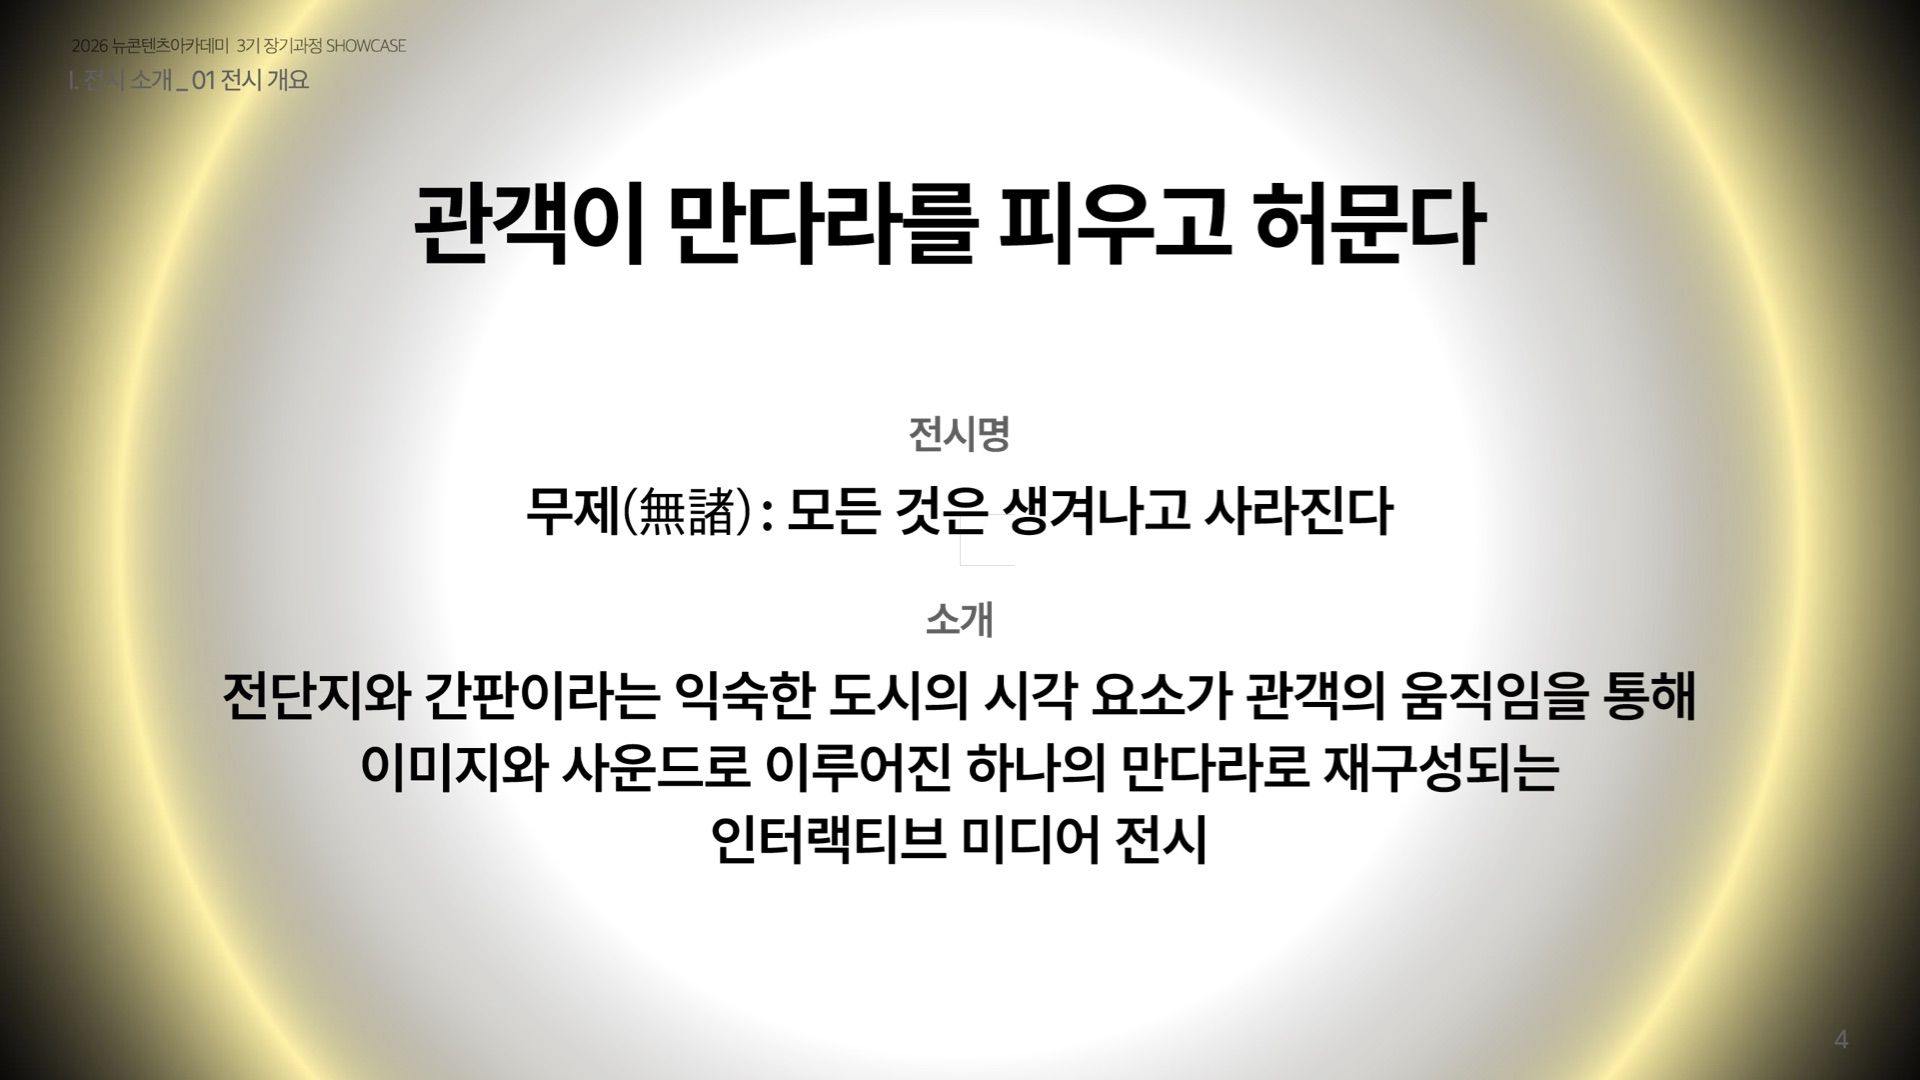
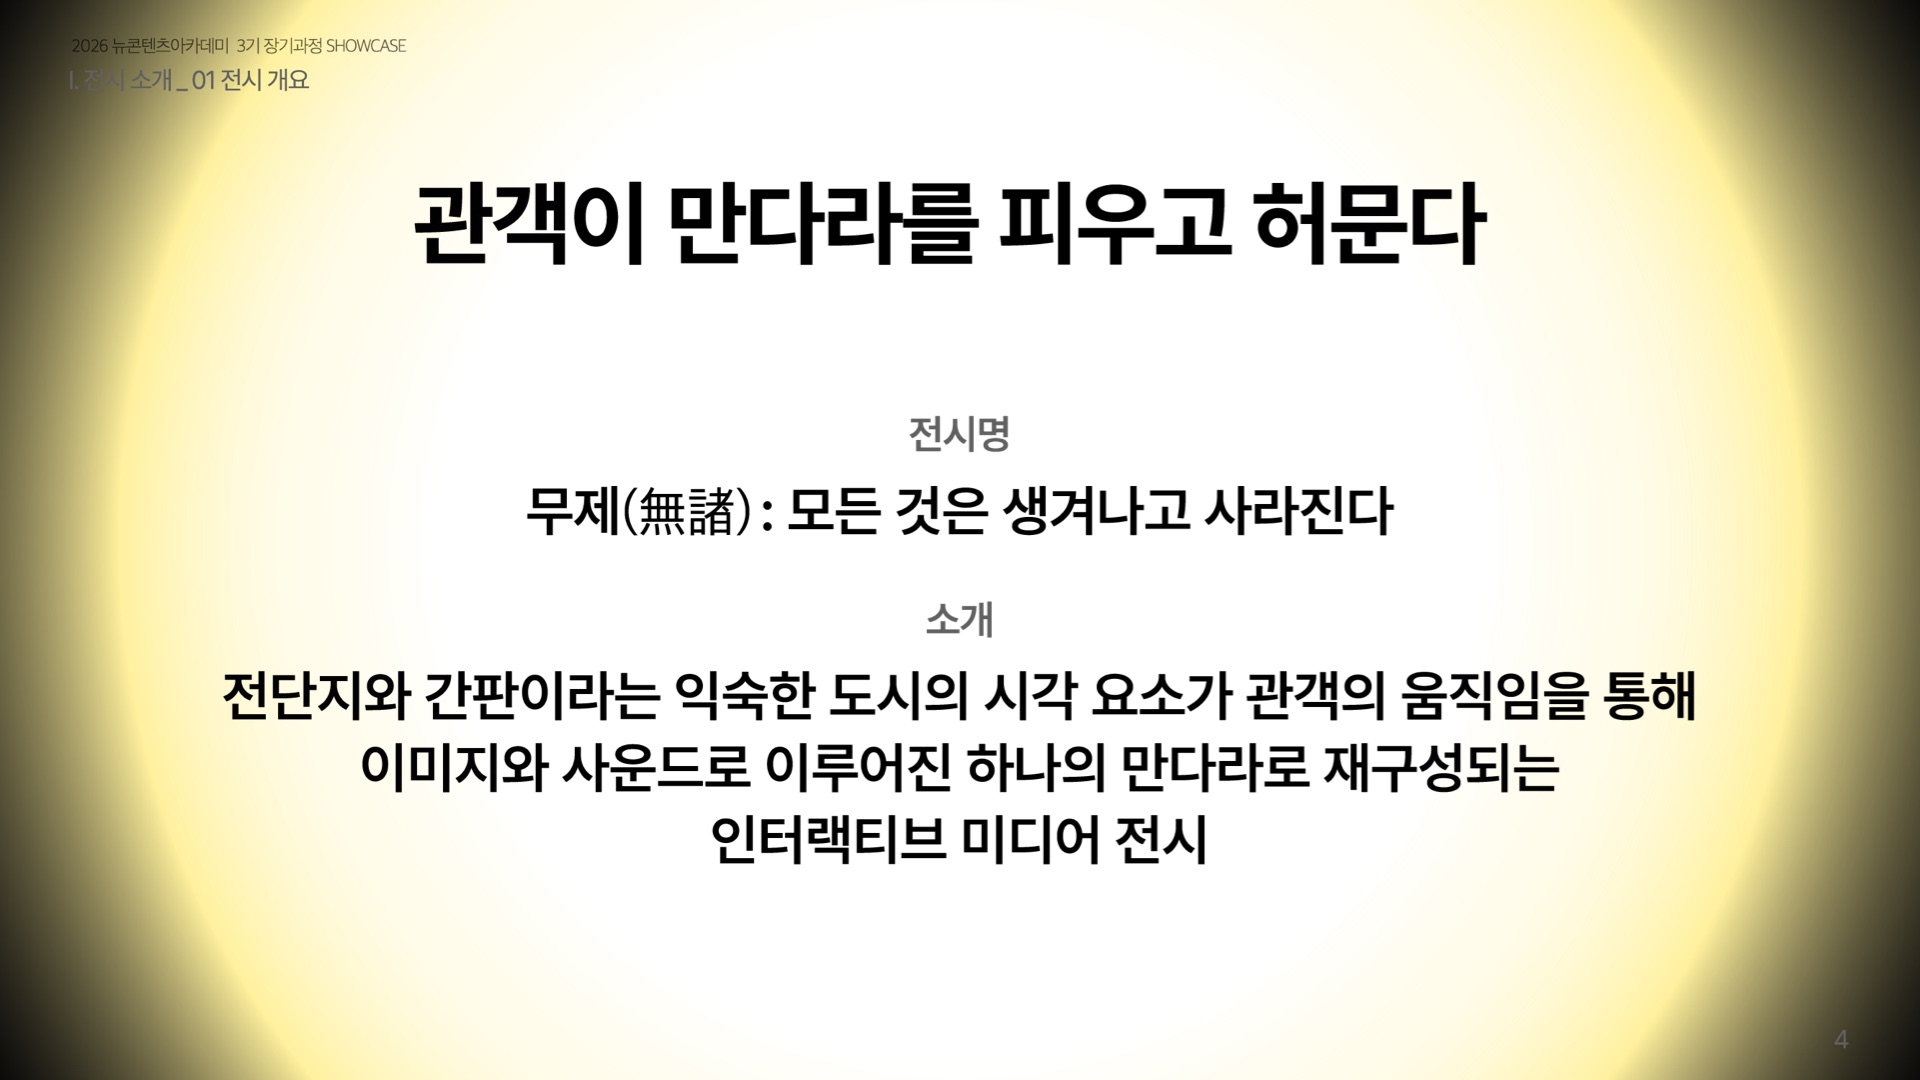
무제: slide 4 rendered on a white background

Changed region(s): [[0.625, 0.0, 0.9375, 1.0], [0.0625, 0.0, 0.375, 1.0]]

diff --git a/index.html b/index.html
@@ -735,7 +735,7 @@ footer h2{font-size:clamp(40px,6vw,72px);font-weight:700;letter-spacing:-.035em;
       <div class="media"><img src="img/muje/hero.jpg?v=4" alt="무제 전시 현장"></div>
       <p class="cap">전시 현장 · 간판 버전, 360° 벽면과 바닥 만다라</p>
       <div class="media nk-gap"><img class="jg-hero" src="img/muje/plan/01.jpg" alt="무제 결과발표 자료"></div>
-      <div class="deck swap"><img src="img/muje/plan/01-t.jpg" data-full="img/muje/plan/01.jpg" alt="결과발표 1p" loading="lazy"><img src="img/muje/plan/02-t.jpg" data-full="img/muje/plan/02.jpg" alt="결과발표 2p" loading="lazy"><img src="img/muje/plan/03-t.jpg" data-full="img/muje/plan/03.jpg" alt="결과발표 3p" loading="lazy"><img src="img/muje/plan/04-t.jpg" data-full="img/muje/plan/04.jpg" alt="결과발표 4p" loading="lazy"><img src="img/muje/plan/05-t.jpg" data-full="img/muje/plan/05.jpg" alt="결과발표 5p" loading="lazy"><img src="img/muje/plan/06-t.jpg" data-full="img/muje/plan/06.jpg" alt="결과발표 6p" loading="lazy"><img src="img/muje/plan/07-t.jpg" data-full="img/muje/plan/07.jpg" alt="결과발표 7p" loading="lazy"><img src="img/muje/plan/08-t.jpg" data-full="img/muje/plan/08.jpg" alt="결과발표 8p" loading="lazy"><img src="img/muje/plan/09-t.jpg" data-full="img/muje/plan/09.jpg" alt="결과발표 9p" loading="lazy"><img src="img/muje/plan/10-t.jpg" data-full="img/muje/plan/10.jpg" alt="결과발표 10p" loading="lazy"><img src="img/muje/plan/11-t.jpg" data-full="img/muje/plan/11.jpg" alt="결과발표 11p" loading="lazy"><img src="img/muje/plan/12-t.jpg" data-full="img/muje/plan/12.jpg" alt="결과발표 12p" loading="lazy"><img src="img/muje/plan/13-t.jpg" data-full="img/muje/plan/13.jpg" alt="결과발표 13p" loading="lazy"><img src="img/muje/plan/14-t.jpg" data-full="img/muje/plan/14.jpg" alt="결과발표 14p" loading="lazy"><img src="img/muje/plan/15-t.jpg" data-full="img/muje/plan/15.jpg" alt="결과발표 15p" loading="lazy"><img src="img/muje/plan/16-t.jpg" data-full="img/muje/plan/16.jpg" alt="결과발표 16p" loading="lazy"><img src="img/muje/plan/17-t.jpg" data-full="img/muje/plan/17.jpg" alt="결과발표 17p" loading="lazy"><img src="img/muje/plan/18-t.jpg" data-full="img/muje/plan/18.jpg" alt="결과발표 18p" loading="lazy"><img src="img/muje/plan/19-t.jpg" data-full="img/muje/plan/19.jpg" alt="결과발표 19p" loading="lazy"><img src="img/muje/plan/20-t.jpg" data-full="img/muje/plan/20.jpg" alt="결과발표 20p" loading="lazy"><img src="img/muje/plan/21-t.jpg" data-full="img/muje/plan/21.jpg" alt="결과발표 21p" loading="lazy"><img src="img/muje/plan/22-t.jpg" data-full="img/muje/plan/22.jpg" alt="결과발표 22p" loading="lazy"><img src="img/muje/plan/23-t.jpg" data-full="img/muje/plan/23.jpg" alt="결과발표 23p" loading="lazy"><img src="img/muje/plan/24-t.jpg" data-full="img/muje/plan/24.jpg" alt="결과발표 24p" loading="lazy"></div>
+      <div class="deck swap"><img src="img/muje/plan/01-t.jpg" data-full="img/muje/plan/01.jpg" alt="결과발표 1p" loading="lazy"><img src="img/muje/plan/02-t.jpg" data-full="img/muje/plan/02.jpg" alt="결과발표 2p" loading="lazy"><img src="img/muje/plan/03-t.jpg" data-full="img/muje/plan/03.jpg" alt="결과발표 3p" loading="lazy"><img src="img/muje/plan/04-t.jpg?v=2" data-full="img/muje/plan/04.jpg?v=2" alt="결과발표 4p" loading="lazy"><img src="img/muje/plan/05-t.jpg" data-full="img/muje/plan/05.jpg" alt="결과발표 5p" loading="lazy"><img src="img/muje/plan/06-t.jpg" data-full="img/muje/plan/06.jpg" alt="결과발표 6p" loading="lazy"><img src="img/muje/plan/07-t.jpg" data-full="img/muje/plan/07.jpg" alt="결과발표 7p" loading="lazy"><img src="img/muje/plan/08-t.jpg" data-full="img/muje/plan/08.jpg" alt="결과발표 8p" loading="lazy"><img src="img/muje/plan/09-t.jpg" data-full="img/muje/plan/09.jpg" alt="결과발표 9p" loading="lazy"><img src="img/muje/plan/10-t.jpg" data-full="img/muje/plan/10.jpg" alt="결과발표 10p" loading="lazy"><img src="img/muje/plan/11-t.jpg" data-full="img/muje/plan/11.jpg" alt="결과발표 11p" loading="lazy"><img src="img/muje/plan/12-t.jpg" data-full="img/muje/plan/12.jpg" alt="결과발표 12p" loading="lazy"><img src="img/muje/plan/13-t.jpg" data-full="img/muje/plan/13.jpg" alt="결과발표 13p" loading="lazy"><img src="img/muje/plan/14-t.jpg" data-full="img/muje/plan/14.jpg" alt="결과발표 14p" loading="lazy"><img src="img/muje/plan/15-t.jpg" data-full="img/muje/plan/15.jpg" alt="결과발표 15p" loading="lazy"><img src="img/muje/plan/16-t.jpg" data-full="img/muje/plan/16.jpg" alt="결과발표 16p" loading="lazy"><img src="img/muje/plan/17-t.jpg" data-full="img/muje/plan/17.jpg" alt="결과발표 17p" loading="lazy"><img src="img/muje/plan/18-t.jpg" data-full="img/muje/plan/18.jpg" alt="결과발표 18p" loading="lazy"><img src="img/muje/plan/19-t.jpg" data-full="img/muje/plan/19.jpg" alt="결과발표 19p" loading="lazy"><img src="img/muje/plan/20-t.jpg" data-full="img/muje/plan/20.jpg" alt="결과발표 20p" loading="lazy"><img src="img/muje/plan/21-t.jpg" data-full="img/muje/plan/21.jpg" alt="결과발표 21p" loading="lazy"><img src="img/muje/plan/22-t.jpg" data-full="img/muje/plan/22.jpg" alt="결과발표 22p" loading="lazy"><img src="img/muje/plan/23-t.jpg" data-full="img/muje/plan/23.jpg" alt="결과발표 23p" loading="lazy"><img src="img/muje/plan/24-t.jpg" data-full="img/muje/plan/24.jpg" alt="결과발표 24p" loading="lazy"></div>
       <p class="cap">결과발표 자료 24p · 썸네일에 마우스를 올리면 위에 크게 보여요</p>
     </div>
   <div class="body">
